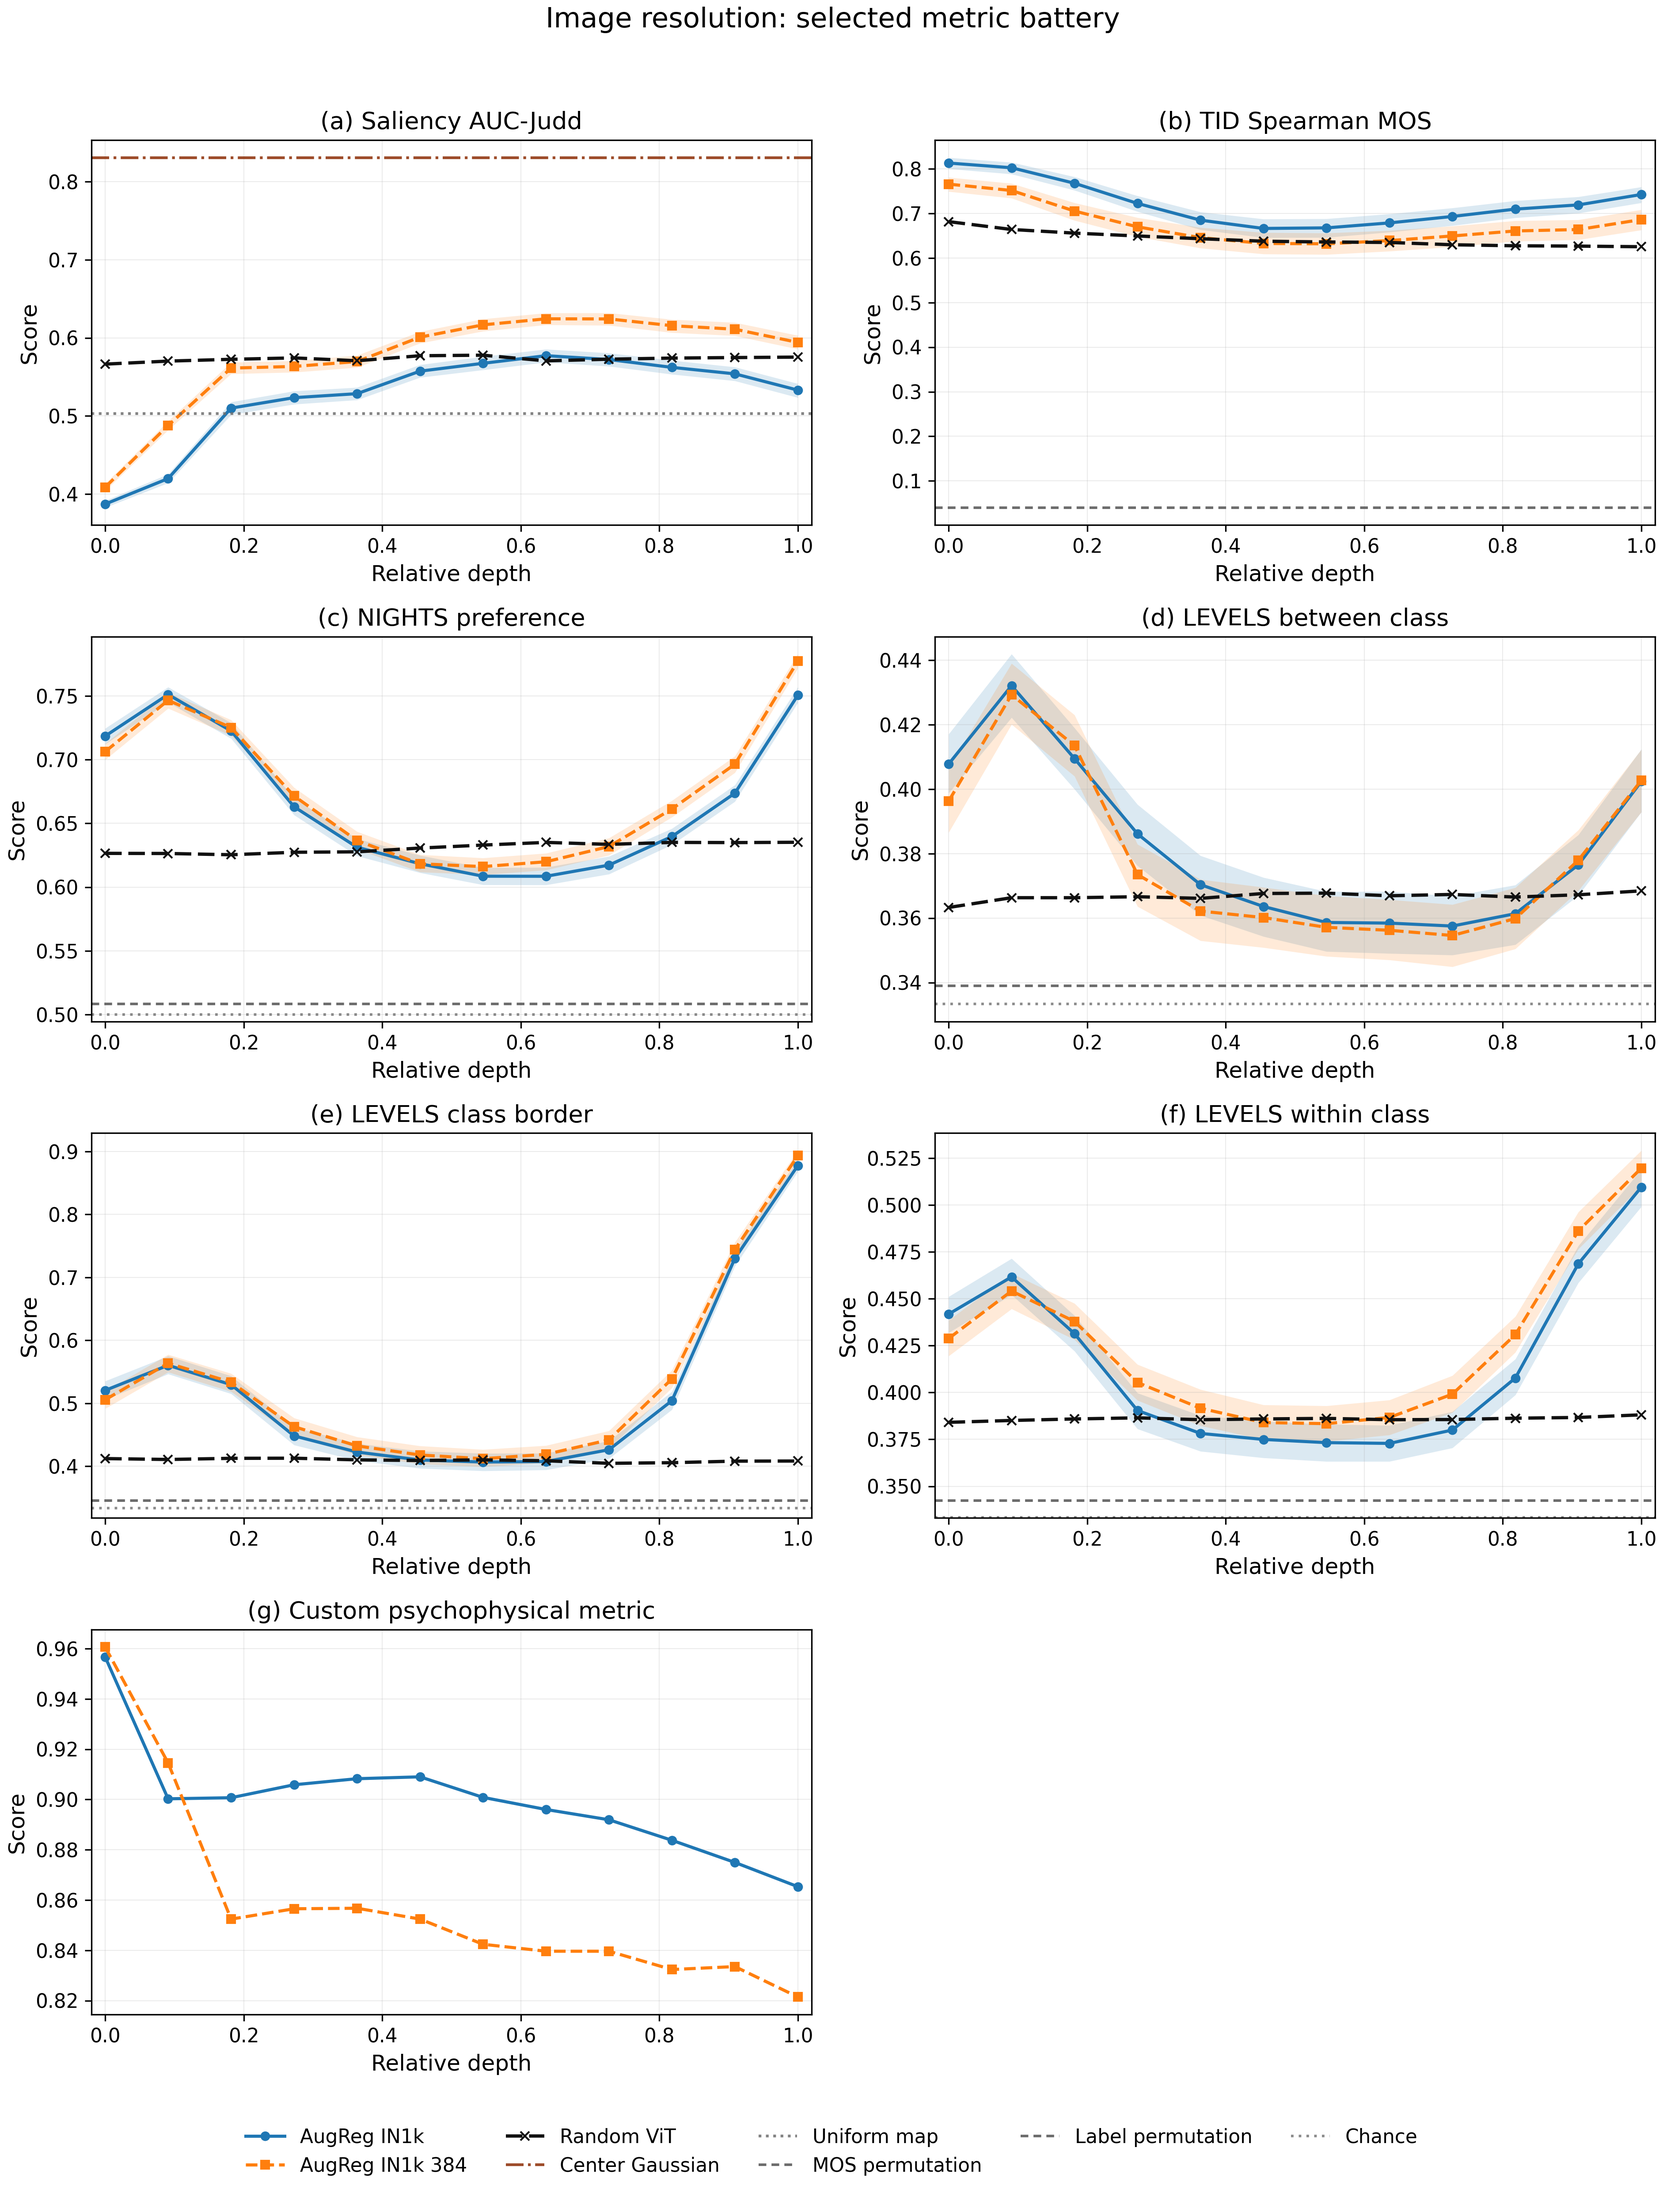
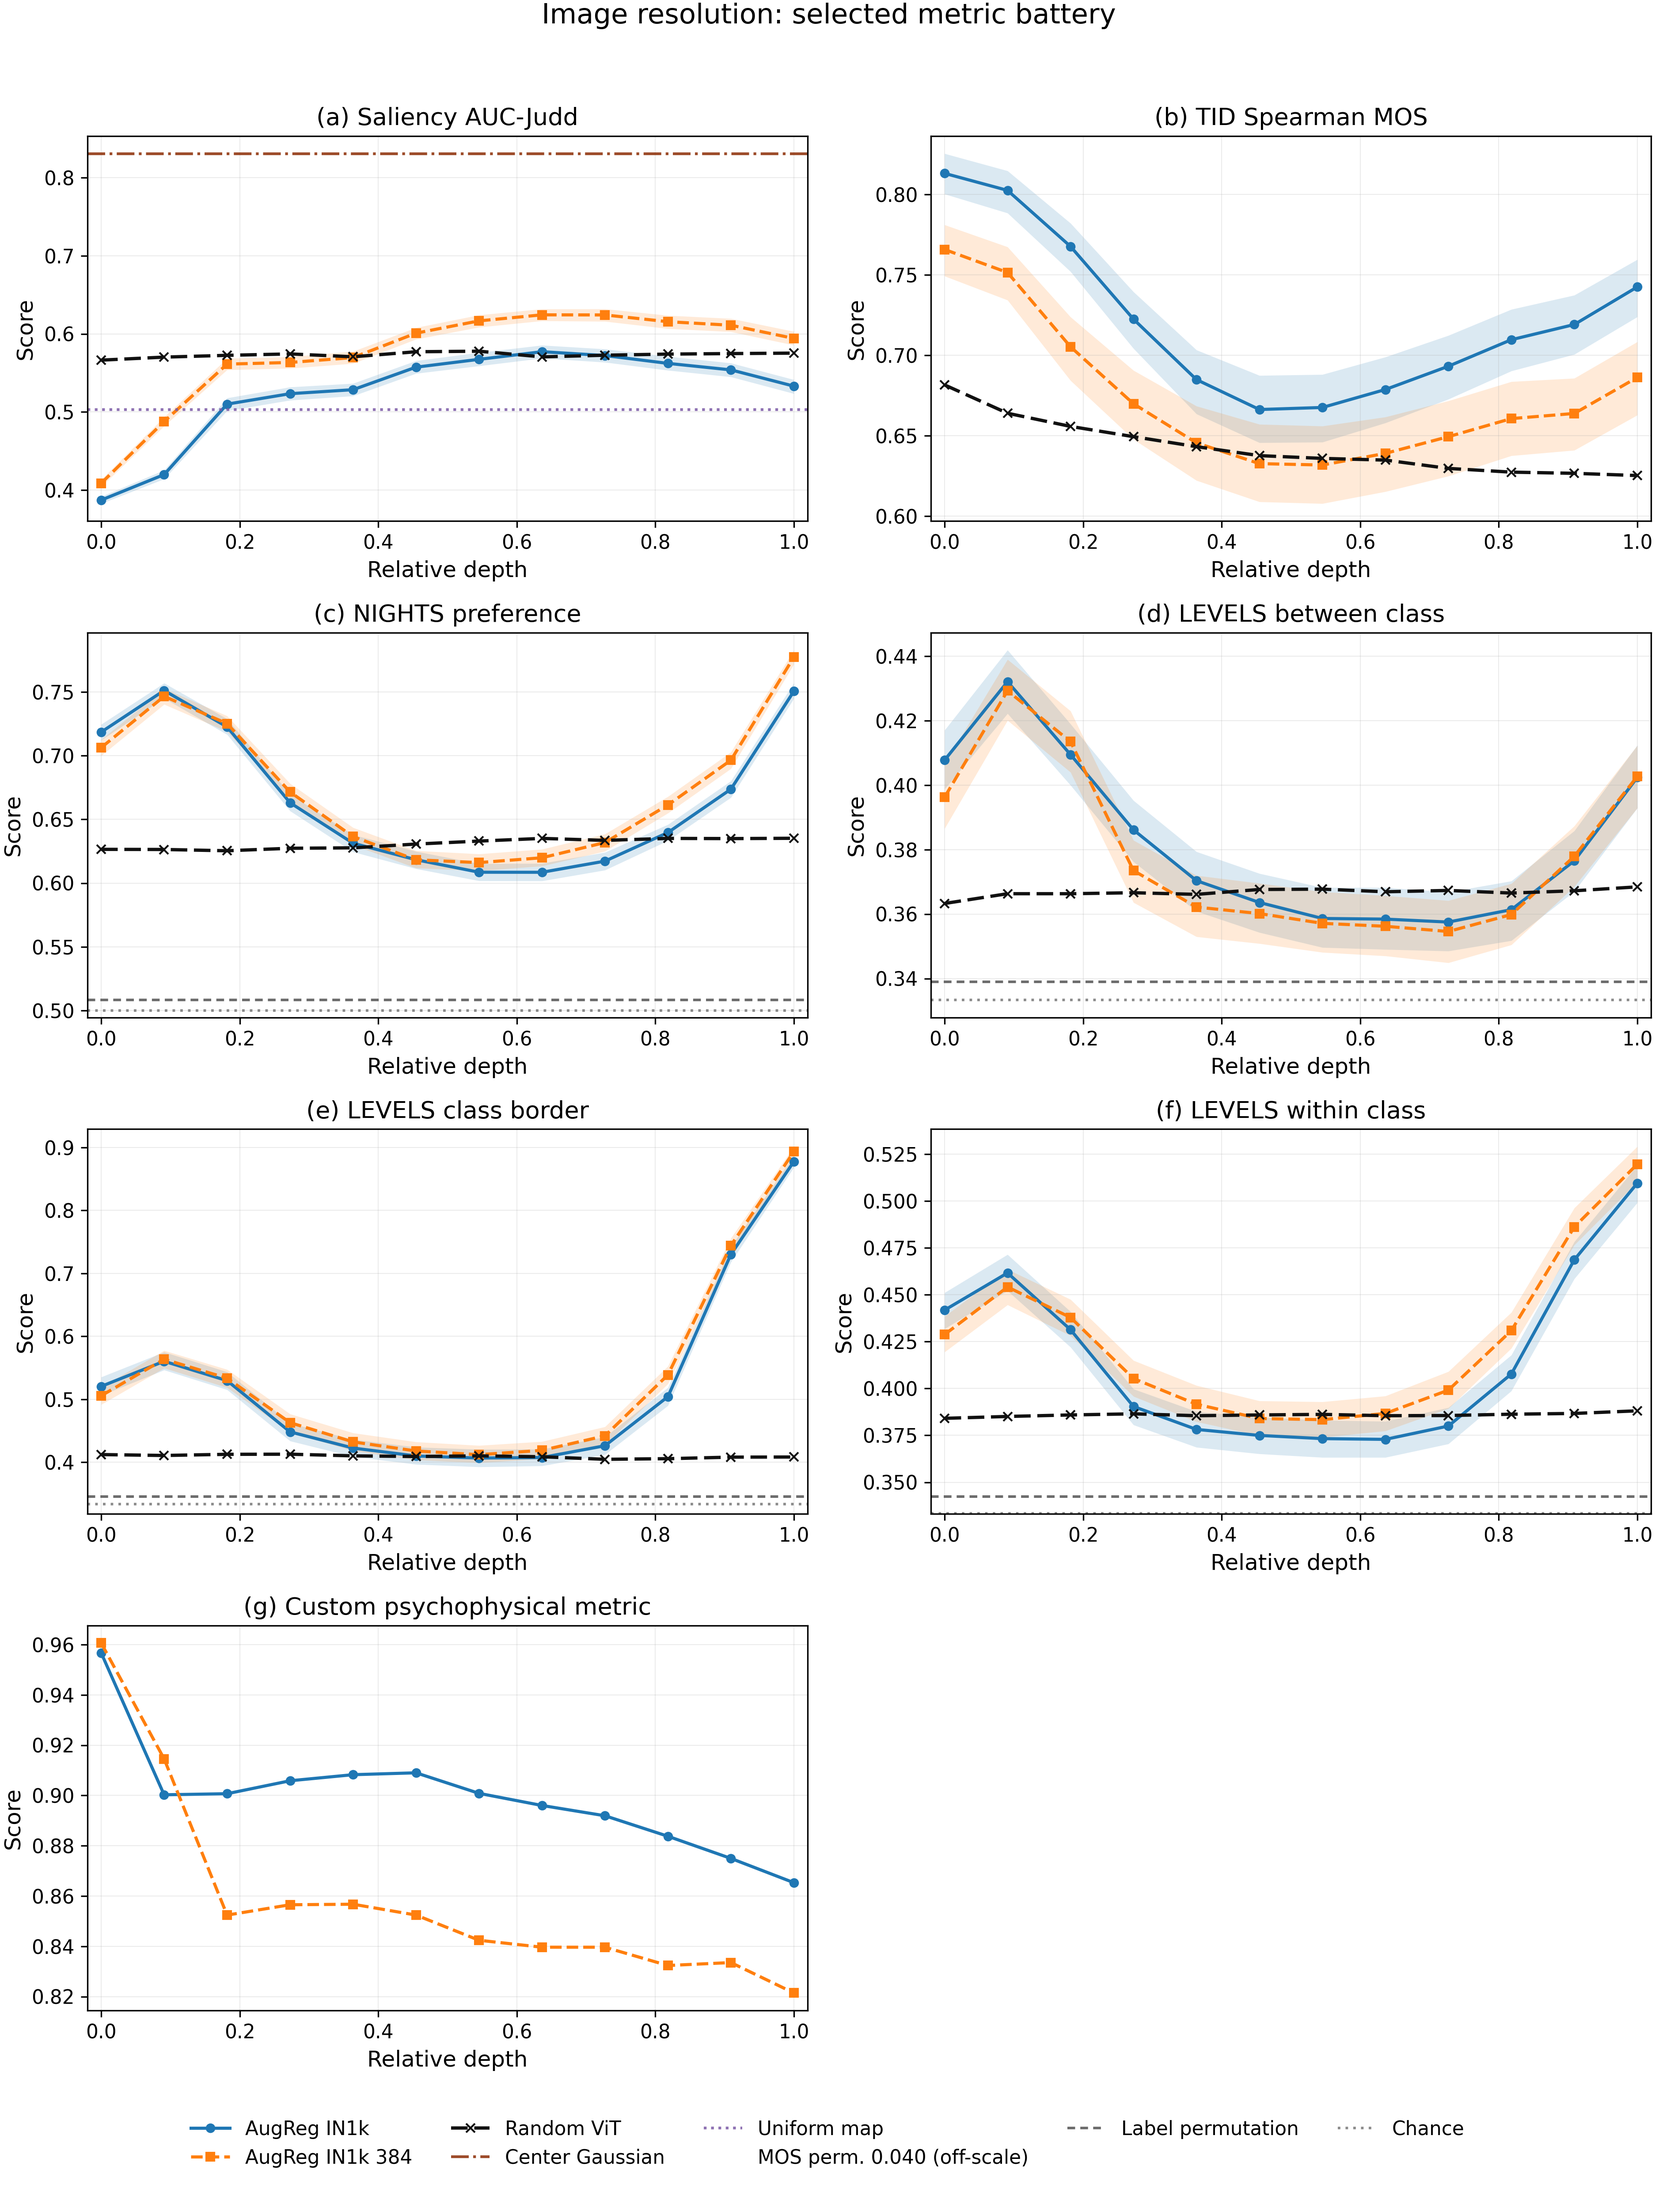
Draw main-text paper figures at print size
Main factor grids are rendered at journal text width with point-size fonts, shared
axis labels, no embedded title, and off-scale null references listed in the legend.

diff --git a/scripts/framework_paper_outputs.py b/scripts/framework_paper_outputs.py
@@ -151,6 +151,27 @@ DELTA_TABLE_COLUMNS = [
 LINE_STYLES = ["-", "--", "-.", ":"]
 MARKERS = ["o", "s", "^", "D", "P", "X"]
 
+# Main-text grids are drawn at their printed size (journal text width) so that
+# font sizes in points are the ones the reader sees; no title is embedded because
+# the LaTeX caption names the figure.
+MAIN_FIGURE_SIZE_IN = (5.15, 2.7)
+MAIN_FIGURE_RC = {
+    "font.size": 7,
+    "axes.titlesize": 7.5,
+    "axes.labelsize": 7,
+    "xtick.labelsize": 6.5,
+    "ytick.labelsize": 6.5,
+    "legend.fontsize": 6.5,
+    "axes.linewidth": 0.6,
+    "xtick.major.width": 0.6,
+    "ytick.major.width": 0.6,
+    "xtick.major.size": 2.5,
+    "ytick.major.size": 2.5,
+}
+# A null reference further below the plotted curves than their own range is listed
+# in the legend with its value instead of drawn, so it does not flatten the panel.
+NULL_OFF_SCALE_GAP = 1.0
+
 
 def parse_args() -> argparse.Namespace:
     parser = argparse.ArgumentParser(
@@ -237,13 +258,14 @@ def main() -> None:
             case_layerwise,
             models=models,
             metrics=CENTRAL_METRICS,
-            title=GROUP_TITLES[group_name],
+            title=None,
             output_path=figures_dir / f"framework_main_{group_name}_2x2.png",
             nrows=2,
             ncols=2,
             baseline_layerwise=baseline_layerwise,
             baseline_summary=baseline_table,
             include_baselines=True,
+            compact=True,
         )
         plot_metric_grid(
             case_layerwise,
@@ -487,16 +509,21 @@ def plot_metric_grid(
     *,
     models: list[str],
     metrics: list[str],
-    title: str,
+    title: str | None,
     output_path: Path,
     nrows: int,
     ncols: int,
     baseline_layerwise: pd.DataFrame | None = None,
     baseline_summary: pd.DataFrame | None = None,
     include_baselines: bool = False,
+    compact: bool = False,
 ) -> None:
-    with plt.rc_context(
-        {
+    """Plot a metric grid; ``compact`` draws it at main-text print size."""
+    if compact:
+        rc = MAIN_FIGURE_RC
+        figsize = MAIN_FIGURE_SIZE_IN
+    else:
+        rc = {
             "font.size": 11,
             "axes.titlesize": 13,
             "axes.labelsize": 12,
@@ -504,8 +531,9 @@ def plot_metric_grid(
             "ytick.labelsize": 10.5,
             "legend.fontsize": 10.5,
         }
-    ):
-        fig, axes = plt.subplots(nrows, ncols, figsize=(6.4 * ncols, 4.15 * nrows))
+        figsize = (6.4 * ncols, 4.15 * nrows)
+    with plt.rc_context(rc):
+        fig, axes = plt.subplots(nrows, ncols, figsize=figsize, sharex=compact)
         _plot_metric_grid_contents(
             fig,
             axes,
@@ -517,6 +545,7 @@ def plot_metric_grid(
             baseline_layerwise=baseline_layerwise,
             baseline_summary=baseline_summary,
             include_baselines=include_baselines,
+            compact=compact,
         )
 
 
@@ -527,14 +556,17 @@ def _plot_metric_grid_contents(
     layerwise: pd.DataFrame,
     models: list[str],
     metrics: list[str],
-    title: str,
+    title: str | None,
     output_path: Path,
     baseline_layerwise: pd.DataFrame | None,
     baseline_summary: pd.DataFrame | None,
     include_baselines: bool,
+    compact: bool = False,
 ) -> None:
     axes_flat = np.ravel(axes)
+    ncols = axes.shape[1] if np.ndim(axes) == 2 else len(axes_flat)
     colors = plt.get_cmap("tab10").colors
+    linewidth, markersize = (1.1, 2.6) if compact else (1.7, 4.2)
     for panel_idx, (ax, experiment_id) in enumerate(zip(axes_flat, metrics)):
         subset = layerwise[
             (layerwise["experiment_id"] == experiment_id)
@@ -545,15 +577,15 @@ def _plot_metric_grid_contents(
             if curve.empty:
                 continue
             color = colors[model_idx % len(colors)]
-            label = MODEL_LABELS.get(model_name, model_name)
+            label = MODEL_LABELS.get(model_name, model_name).replace("->", "\u2192")
             ax.plot(
                 curve["relative_depth"],
                 curve["raw_score"],
                 color=color,
                 marker=MARKERS[model_idx % len(MARKERS)],
                 linestyle=LINE_STYLES[model_idx % len(LINE_STYLES)],
-                linewidth=1.7,
-                markersize=4.2,
+                linewidth=linewidth,
+                markersize=markersize,
                 label=label,
             )
             if curve["ci_lower"].notna().any() and curve["ci_upper"].notna().any():
@@ -571,29 +603,45 @@ def _plot_metric_grid_contents(
                 experiment_id=experiment_id,
                 baseline_layerwise=baseline_layerwise,
                 baseline_summary=baseline_summary,
+                compact=compact,
             )
         panel_label = chr(ord("a") + panel_idx)
         ax.set_title(
-            f"({panel_label}) {METRIC_LABELS.get(experiment_id, experiment_id)}"
+            f"({panel_label}) {METRIC_LABELS.get(experiment_id, experiment_id)}",
+            pad=3 if compact else 6,
         )
-        ax.set_xlabel("Relative depth")
-        ax.set_ylabel("Score")
-        ax.grid(alpha=0.25, linewidth=0.5)
+        # In compact grids the axes are shared, so only the outer panels are labelled.
+        is_bottom_row = panel_idx >= len(metrics) - ncols
+        if not compact or is_bottom_row:
+            ax.set_xlabel("Relative depth")
+        if not compact or panel_idx % ncols == 0:
+            ax.set_ylabel("Score")
+        ax.grid(alpha=0.25, linewidth=0.4 if compact else 0.5)
+        if compact:
+            ax.yaxis.set_major_locator(plt.MaxNLocator(nbins=4))
         ax.set_xlim(-0.02, 1.02)
     for ax in axes_flat[len(metrics):]:
         ax.axis("off")
     handles, labels = collect_unique_legend_items(axes_flat)
+    legend_ncol = min(len(labels), 4 if compact else 5)
     if handles:
         fig.legend(
             handles,
             labels,
             loc="lower center",
-            ncol=min(len(labels), 5),
+            ncol=legend_ncol,
             frameon=False,
+            columnspacing=0.9 if compact else 2.0,
+            handlelength=2.4 if compact else 2.0,
         )
-    fig.suptitle(title, y=0.995, fontsize=15)
-    fig.tight_layout(rect=(0, 0.045, 1, 0.98))
-    fig.savefig(output_path, dpi=300, bbox_inches="tight", pad_inches=0.05)
+    if title:
+        fig.suptitle(title, y=0.995, fontsize=15)
+    if compact:
+        legend_rows = math.ceil(len(labels) / legend_ncol) if handles else 0
+        fig.tight_layout(rect=(0, 0.035 + 0.045 * legend_rows, 1, 1), h_pad=0.6, w_pad=1.0)
+    else:
+        fig.tight_layout(rect=(0, 0.045, 1, 0.98 if title else 1))
+    fig.savefig(output_path, dpi=300, bbox_inches="tight", pad_inches=0.02)
     plt.close(fig)
 
 
@@ -616,9 +664,10 @@ def add_metric_references(
     experiment_id: str,
     baseline_layerwise: pd.DataFrame | None,
     baseline_summary: pd.DataFrame | None,
+    compact: bool = False,
 ) -> None:
     if baseline_layerwise is not None and not baseline_layerwise.empty:
-        draw_random_vit_curve(ax, experiment_id, baseline_layerwise)
+        draw_random_vit_curve(ax, experiment_id, baseline_layerwise, compact=compact)
         if experiment_id == "saliency-auc-judd":
             draw_spatial_saliency_lines(ax, baseline_layerwise)
     if baseline_summary is not None and not baseline_summary.empty:
@@ -639,6 +688,8 @@ def draw_random_vit_curve(
     ax: plt.Axes,
     experiment_id: str,
     baseline_layerwise: pd.DataFrame,
+    *,
+    compact: bool = False,
 ) -> None:
     curve = baseline_layerwise[
         (baseline_layerwise["experiment_id"] == experiment_id)
@@ -652,8 +703,8 @@ def draw_random_vit_curve(
         color="#111111",
         marker="x",
         linestyle=(0, (5, 2)),
-        linewidth=1.8,
-        markersize=4.8,
+        linewidth=1.2 if compact else 1.8,
+        markersize=3.0 if compact else 4.8,
         label="Random ViT",
         zorder=4,
     )
@@ -665,7 +716,7 @@ def draw_spatial_saliency_lines(
 ) -> None:
     styles = {
         "saliency-baseline::center-gaussian": ("Center Gaussian", "#8c2d04", "-."),
-        "saliency-baseline::uniform": ("Uniform map", "#6f6f6f", ":"),
+        "saliency-baseline::uniform": ("Uniform map", "#7b5aa6", ":"),
     }
     for model_name, (label, color, linestyle) in styles.items():
         curve = baseline_layerwise[
@@ -696,13 +747,20 @@ def draw_null_reference(
     if rows.empty:
         return
     row = rows.iloc[0]
+    null_score = float(row["null_score"])
+    label = null_label(str(row["metric_name"]))
+    data_low, data_high = ax.dataLim.y0, ax.dataLim.y1
+    if null_score < data_low - NULL_OFF_SCALE_GAP * (data_high - data_low):
+        # Invisible handle: the legend entry carries the value of the off-scale null.
+        ax.plot([], [], linestyle="none", label=f"{label.replace('permutation', 'perm.')} {null_score:.3f} (off-scale)")
+        return
     ax.axhline(
-        float(row["null_score"]),
+        null_score,
         color="#525252",
         linestyle=(0, (3, 2)),
         linewidth=1.4,
         alpha=0.85,
-        label=null_label(str(row["metric_name"])),
+        label=label,
     )
 
 
